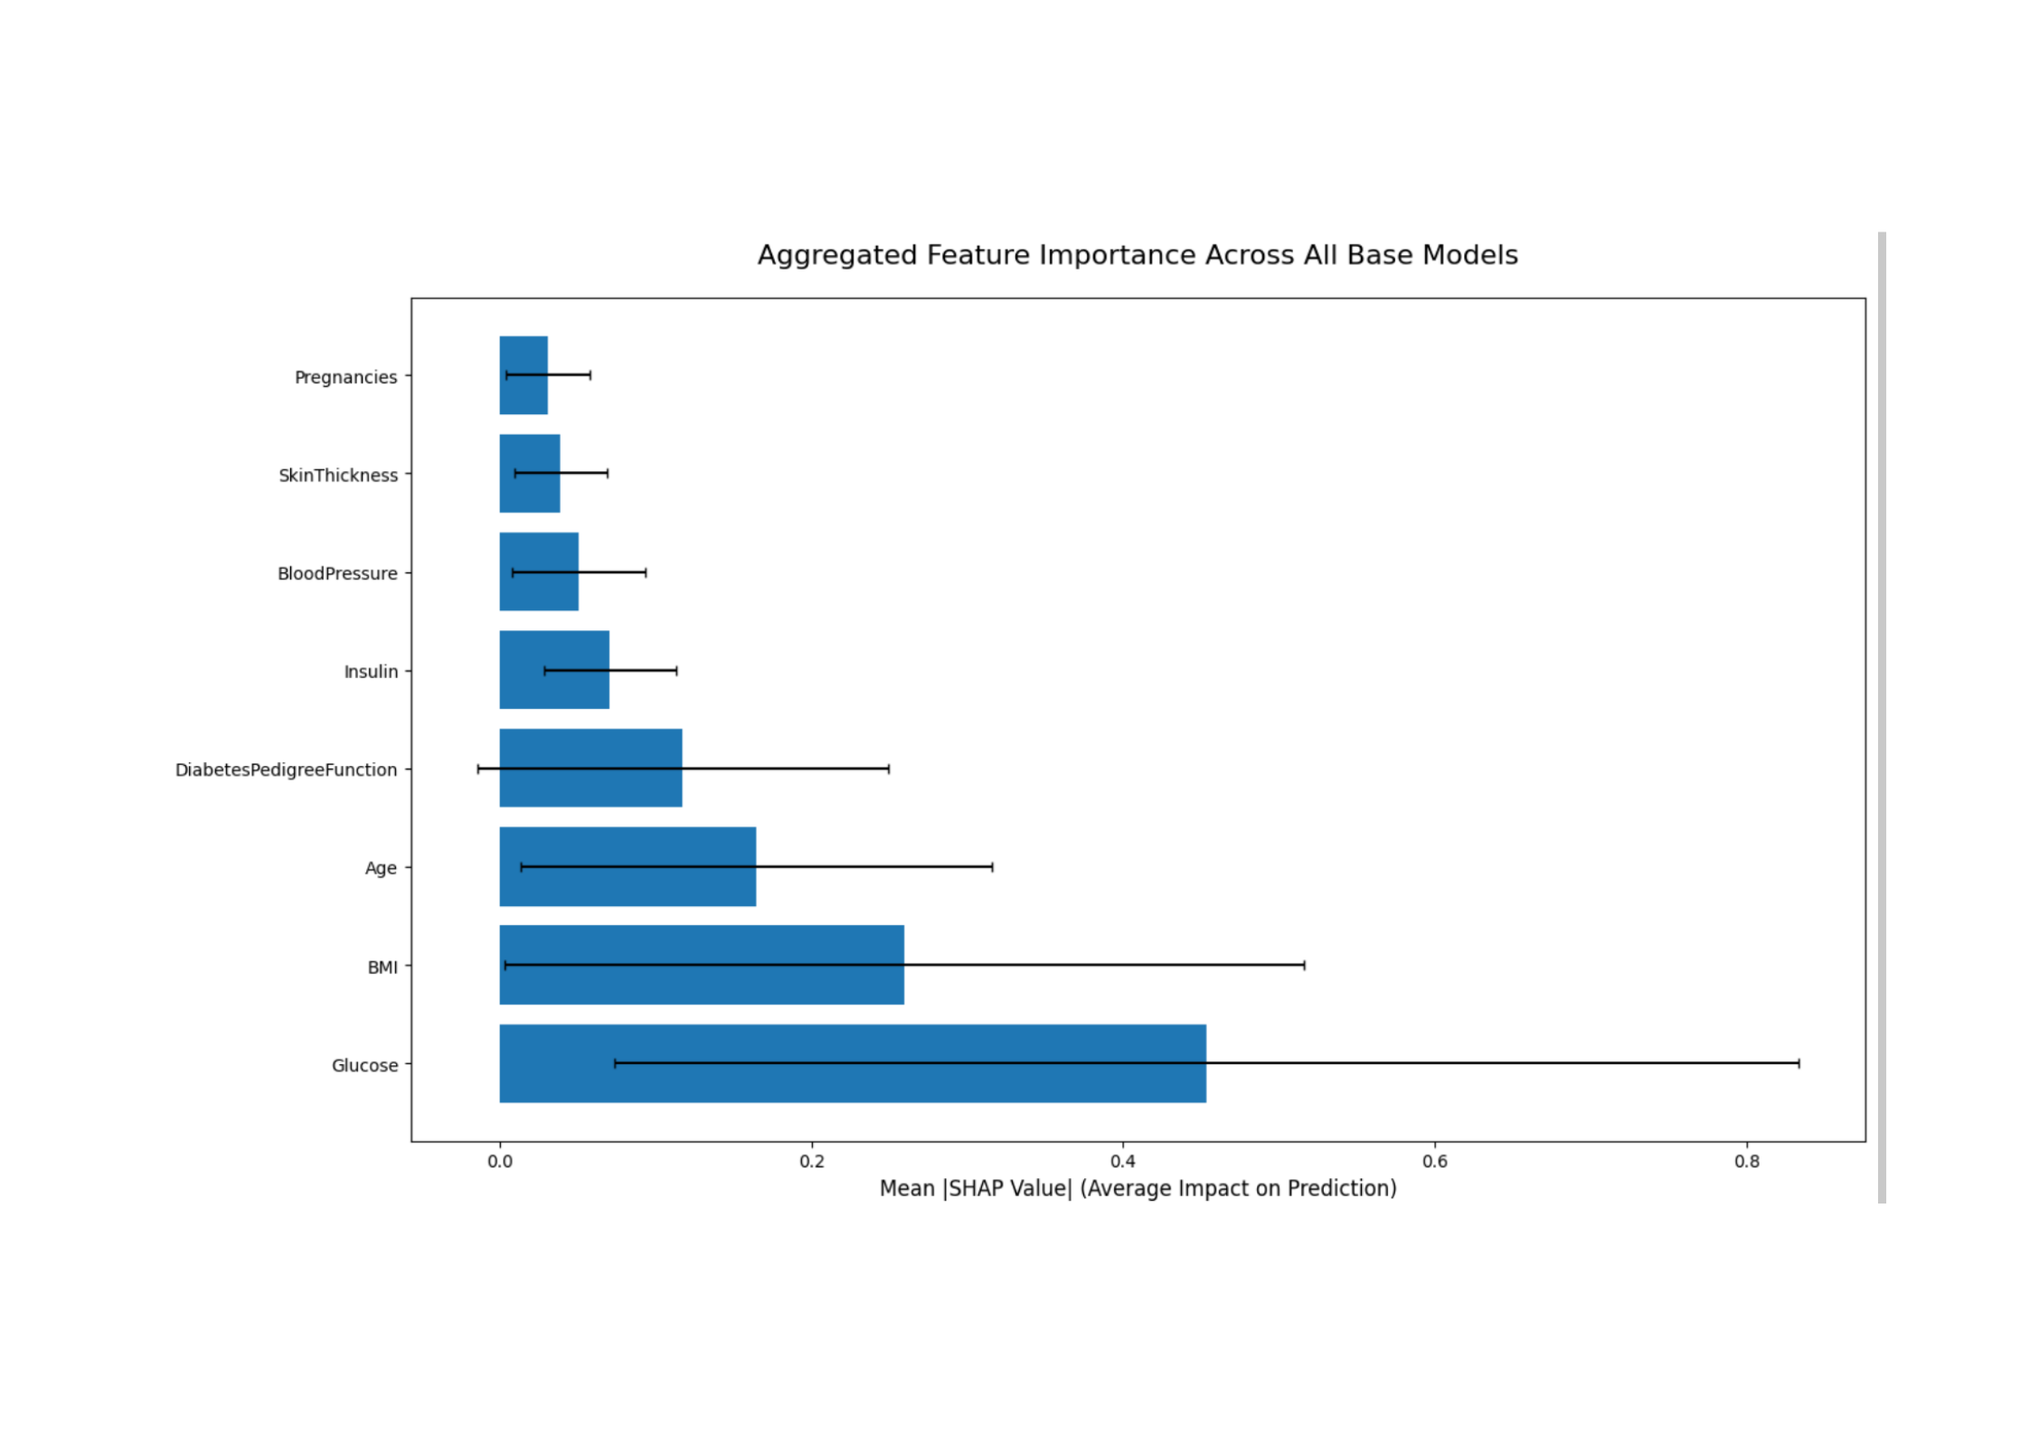
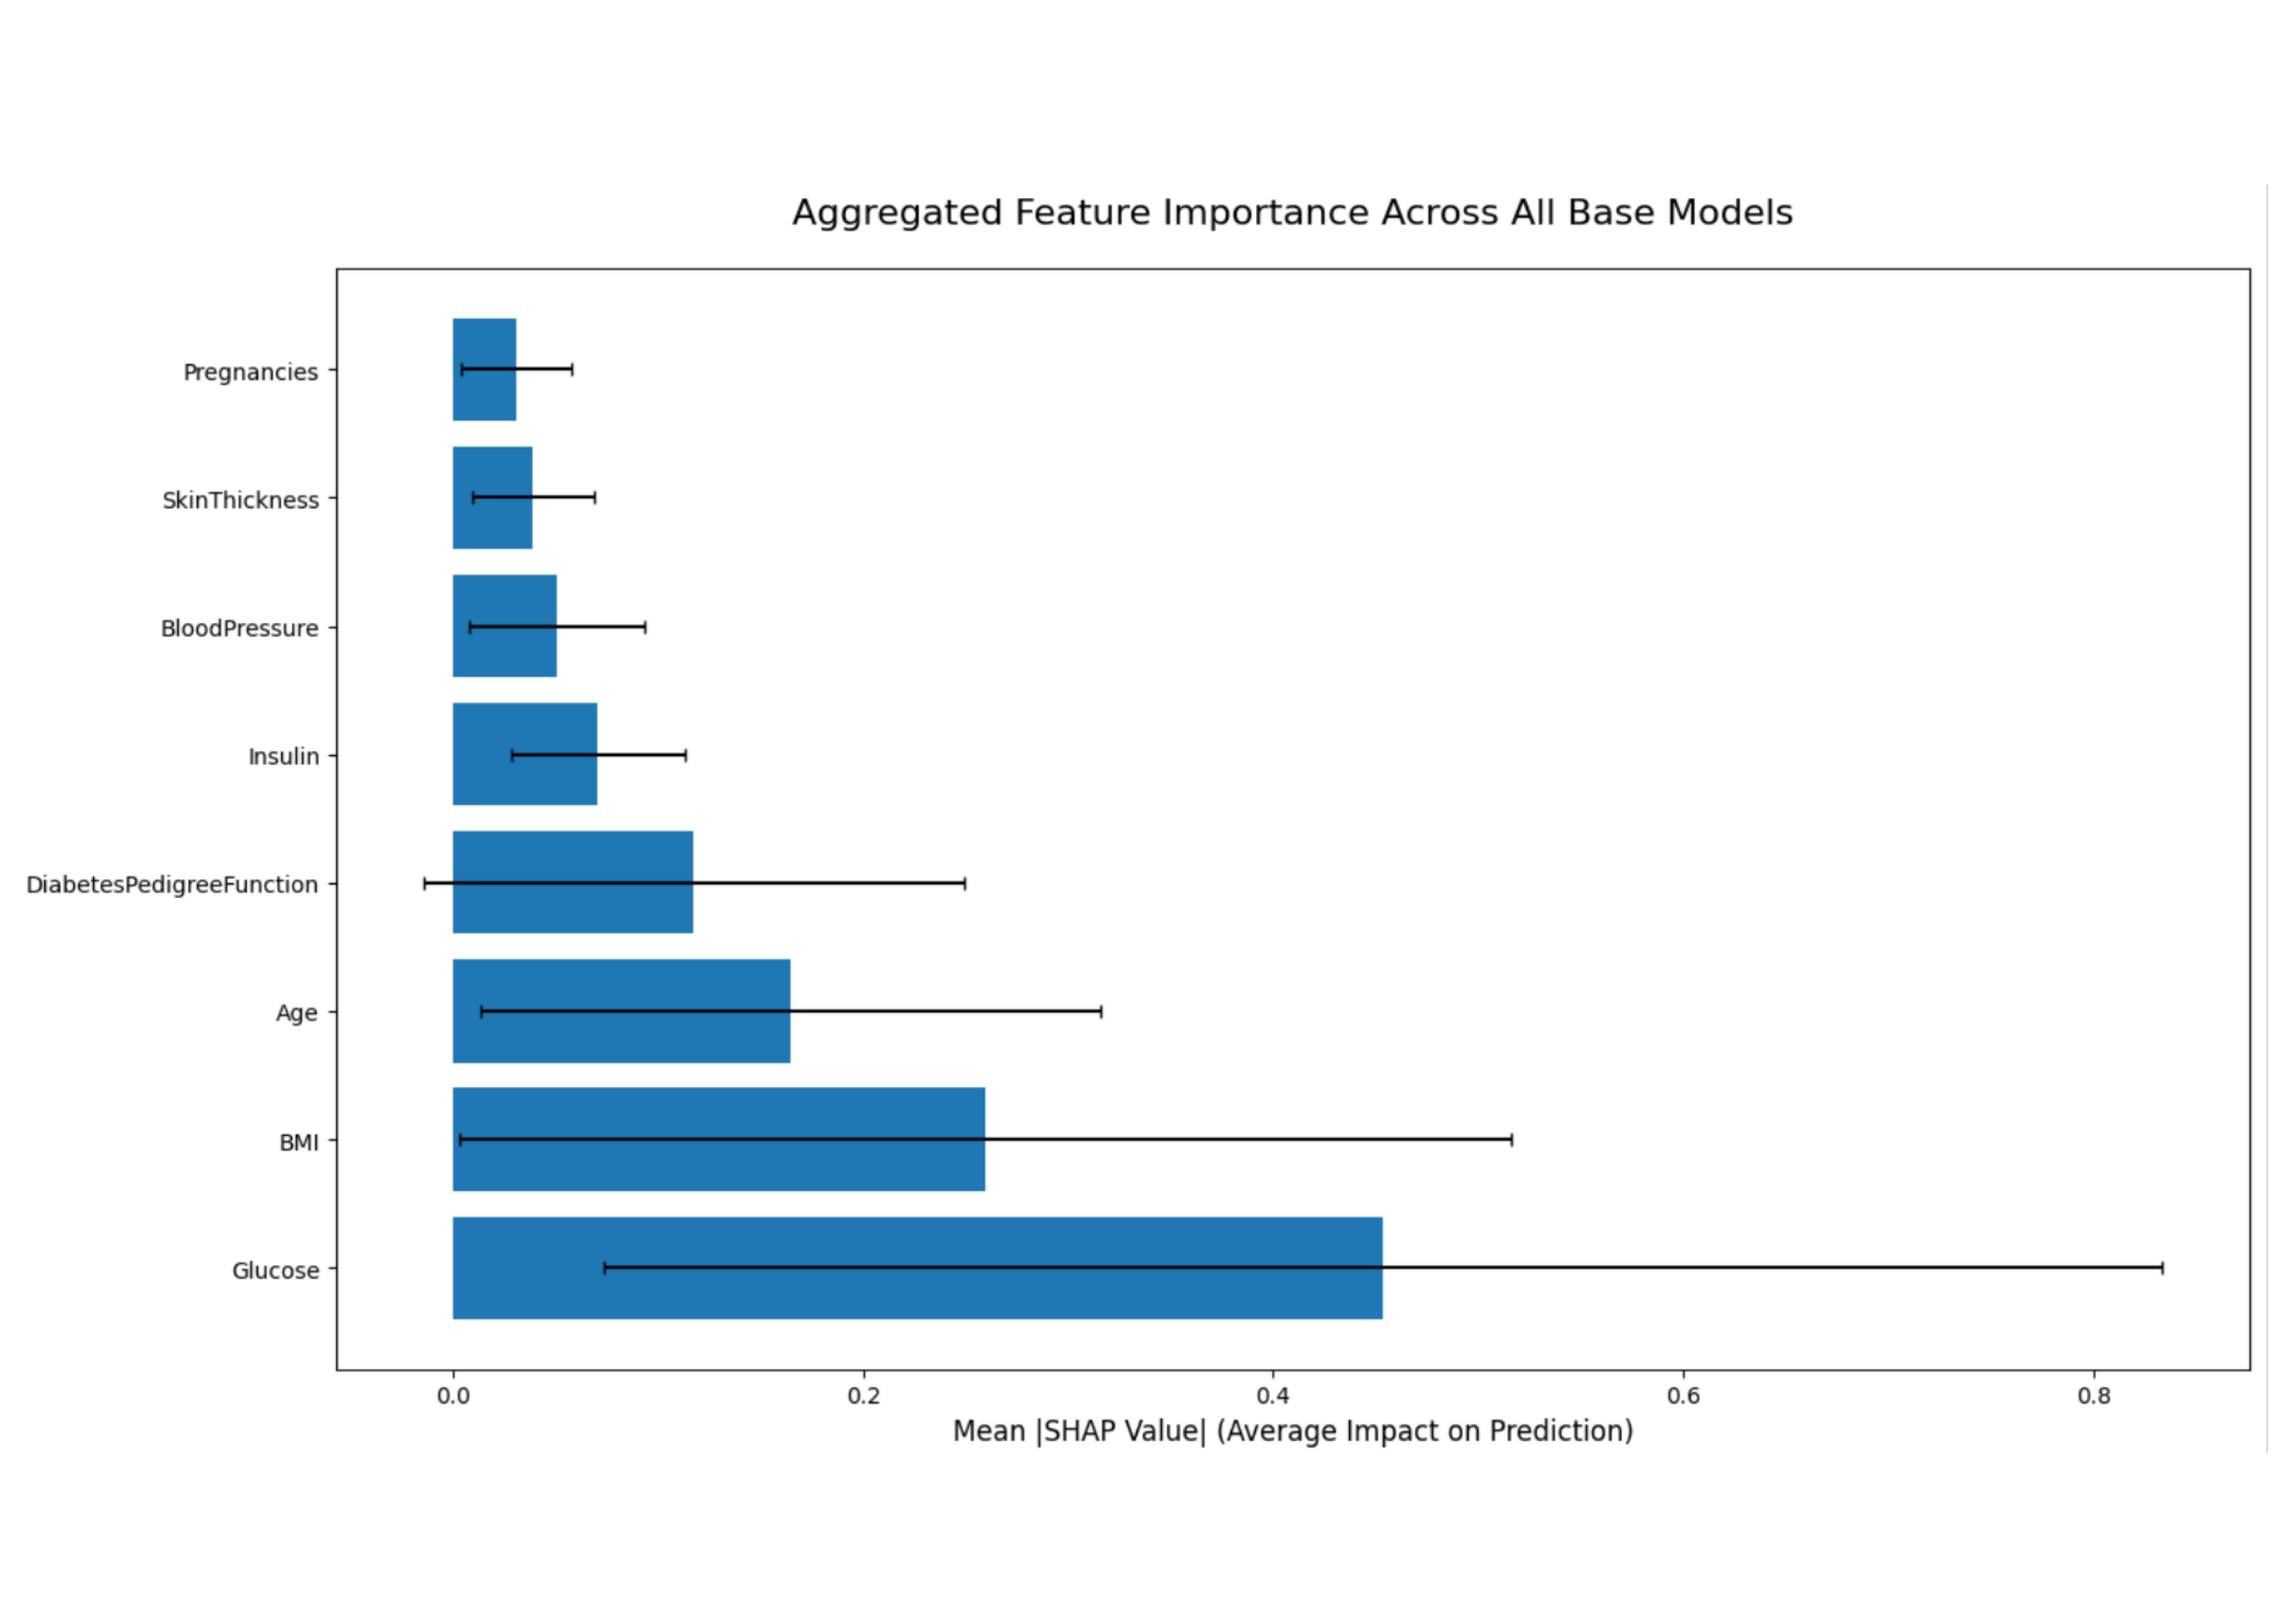
Initial commit: Streamlit app with SHAP UI components

diff --git a/app.py b/app.py
@@ -666,6 +666,152 @@ st.markdown("""
     </p>
 </div>
 """, unsafe_allow_html=True)
+
+# ============================================
+# MODEL PROBABILITY CALIBRATION (SIGMOID)
+# ============================================
+
+# Global Custom Styling for Pure Black Text & Modern Cards
+st.markdown("""
+<style>
+    /* Force Image Caption to Pure Black */
+    [data-testid="stImageCaption"] {
+        color: #000000 !important;
+        font-weight: 600 !important;
+        font-size: 0.88rem !important;
+    }
+
+    .card-box {
+        background-color: #ffffff;
+        border-radius: 12px;
+        padding: 1.5rem;
+        border: 1px solid #e2e8f0;
+        box-shadow: 0 4px 12px rgba(0, 0, 0, 0.04);
+        height: 100%;
+        display: flex;
+        flex-direction: column;
+    }
+
+    .card-ece        { border-top: 5px solid #059669; }
+    .card-alignment  { border-top: 5px solid #2563eb; }
+    .card-clinical   { border-top: 5px solid #d97706; }
+
+    .card-title {
+        color: #000000 !important;
+        font-weight: 800;
+        font-size: 1.1rem;
+        margin-bottom: 4px;
+    }
+
+    .card-subtitle {
+        color: #000000 !important;
+        font-weight: 700;
+        font-size: 0.95rem;
+        margin-bottom: 12px;
+    }
+
+    .card-body {
+        color: #000000 !important;
+        font-size: 0.9rem;
+        line-height: 1.6;
+        margin: 0;
+        text-align: left;
+    }
+
+    .banner-box {
+        background-color: #f0fdf4;
+        border: 1px solid #bbf7d0;
+        border-left: 5px solid #16a34a;
+        padding: 1.25rem;
+        border-radius: 8px;
+        margin-top: 1.5rem;
+    }
+
+    .banner-text {
+        color: #000000 !important;
+        font-size: 0.95rem;
+        line-height: 1.6;
+        margin: 0;
+    }
+</style>
+""", unsafe_allow_html=True)
+
+# ---------------------------------------------------------
+# HEADER SECTION
+# ---------------------------------------------------------
+st.markdown('<h3 style="color: #000000; font-weight: 800; margin-bottom: 0;">🎯 Model Probability Calibration (Sigmoid Method)</h3>', unsafe_allow_html=True)
+st.markdown('<p style="color: #000000; font-size: 0.95rem; margin-top: 4px; margin-bottom: 20px;">Evaluating the trustworthiness and accuracy of predicted probability outputs after applying Platt scaling (Sigmoid Calibration).</p>', unsafe_allow_html=True)
+
+image_path = "diabetes (3).png"
+
+# ---------------------------------------------------------
+# 1. HERO IMAGE CONTAINER
+# ---------------------------------------------------------
+with st.container():
+    if os.path.exists(image_path):
+        st.image(
+            image_path, 
+            caption="Figure: Calibration Curve After Sigmoid Calibration (Expected Calibration Error = 0.056)", 
+            use_container_width=True
+        )
+    else:
+        st.warning(f"⚠ **Image File Missing:** `'{image_path}'`")
+        st.info("Please place `diabetes (3).png` inside your project directory.")
+
+st.write("")
+st.divider()
+
+# ---------------------------------------------------------
+# 2. RESPONSIVE INSIGHTS GRID
+# ---------------------------------------------------------
+st.markdown('<h4 style="color: #000000; font-weight: 800; margin-bottom: 1rem;">💡 Calibration Curve Analysis</h4>', unsafe_allow_html=True)
+
+col_ece, col_align, col_reliability = st.columns(3, gap="medium")
+
+with col_ece:
+    st.markdown("""
+    <div class="card-box card-ece">
+        <div class="card-title">📉 Low Calibration Error</div>
+        <div class="card-subtitle">ECE = 0.056 (5.6%)</div>
+        <p class="card-body">
+            An Expected Calibration Error of only 5.6% shows a minimal gap between predicted probabilities and actual positive rates, proving high mathematical precision.
+        </p>
+    </div>
+    """, unsafe_allow_html=True)
+
+with col_align:
+    st.markdown("""
+    <div class="card-box card-alignment">
+        <div class="card-title">📈 Diagonal Alignment</div>
+        <div class="card-subtitle">Tracks "Perfect" Reference Line</div>
+        <p class="card-body">
+            The green line closely follows the black dashed diagonal line, confirming that the model avoids overconfidence (false high risk) and underconfidence (false low risk).
+        </p>
+    </div>
+    """, unsafe_allow_html=True)
+
+with col_reliability:
+    st.markdown("""
+    <div class="card-box card-clinical">
+        <div class="card-title">🏥 Realistic Risk Output</div>
+        <div class="card-subtitle">Dependable Probability Scores</div>
+        <p class="card-body">
+            When the calibrated ensemble outputs a 70% risk score, approximately 70 out of 100 actual patients in that group have diabetes, making predictions clinically actionable.
+        </p>
+    </div>
+    """, unsafe_allow_html=True)
+
+# ---------------------------------------------------------
+# 3. CLINICAL SUMMARY BANNER
+# ---------------------------------------------------------
+st.markdown("""
+<div class="banner-box">
+    <p class="banner-text">
+        💡 <strong>Key Calibration Takeaway:</strong> Raw machine learning outputs often produce overconfident probabilities. Applying <strong>Sigmoid Calibration</strong> aligns the model's confidence scores with real-world disease incidence, ensuring doctors can trust the exact risk percentage displayed by the app.
+    </p>
+</div>
+""", unsafe_allow_html=True)
+
 # ============================================
 # THRESHOLD EXPLANATION & CLINICAL JUSTIFICATION
 # ============================================
